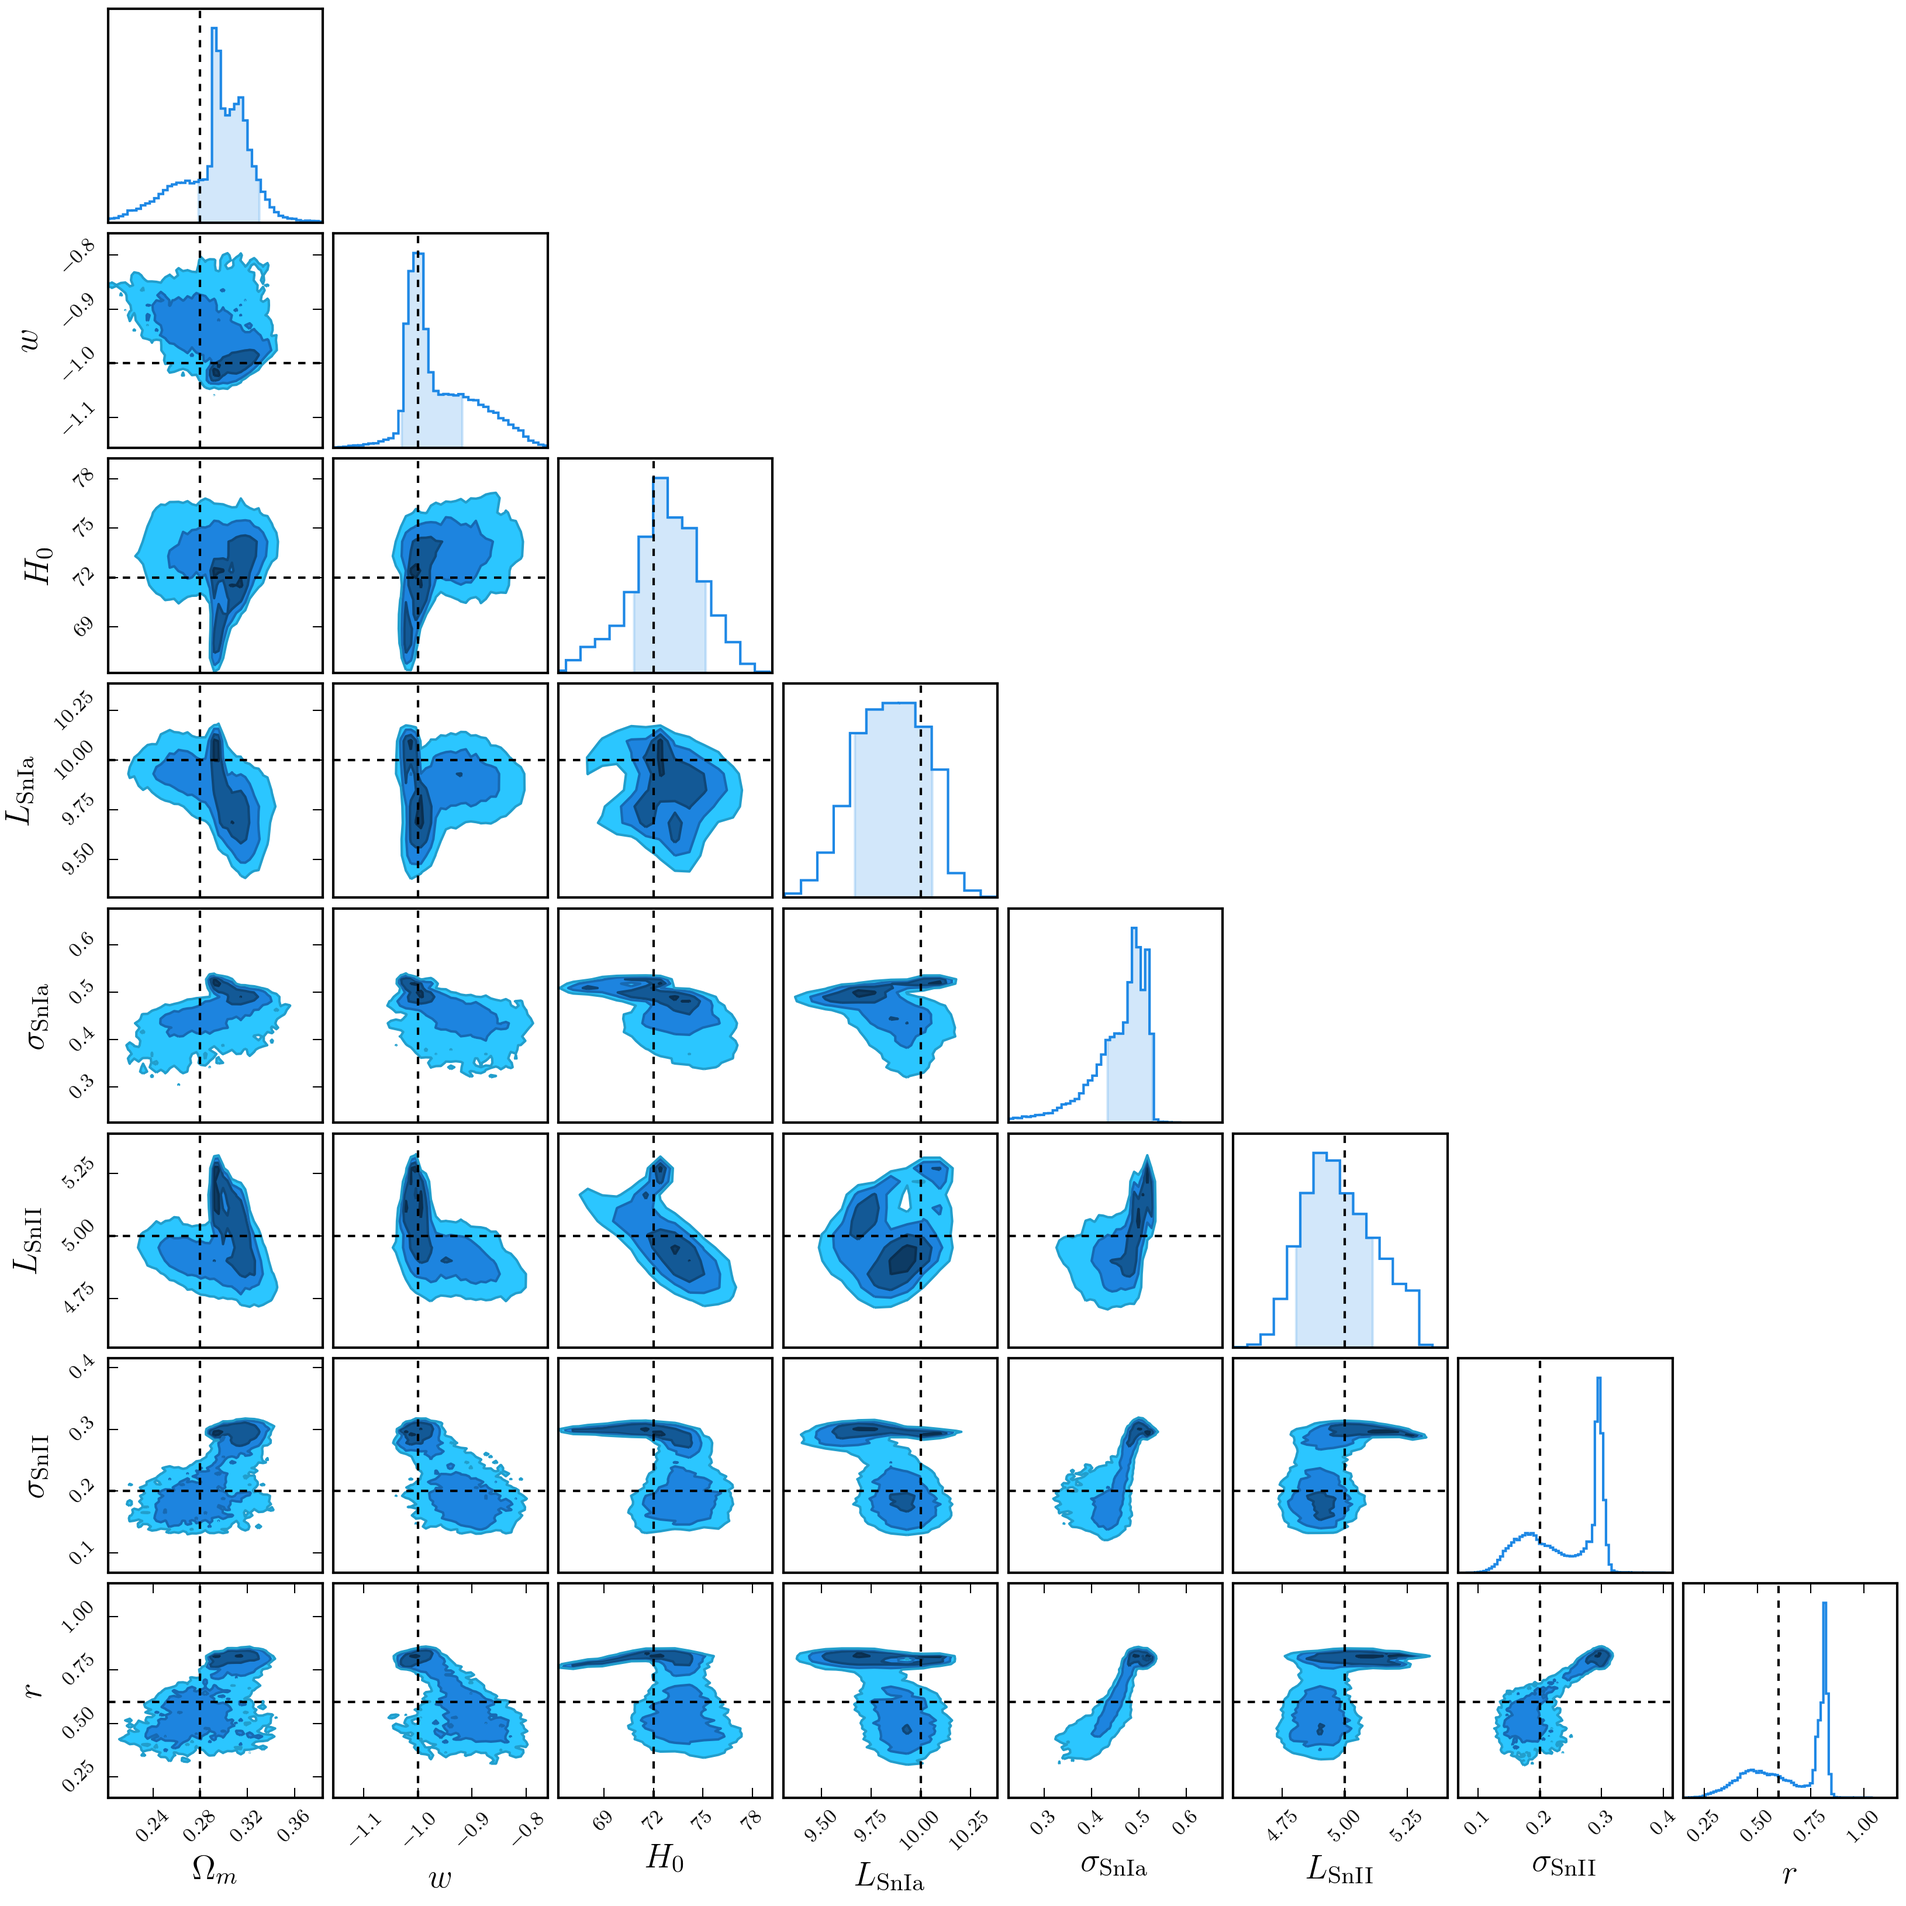
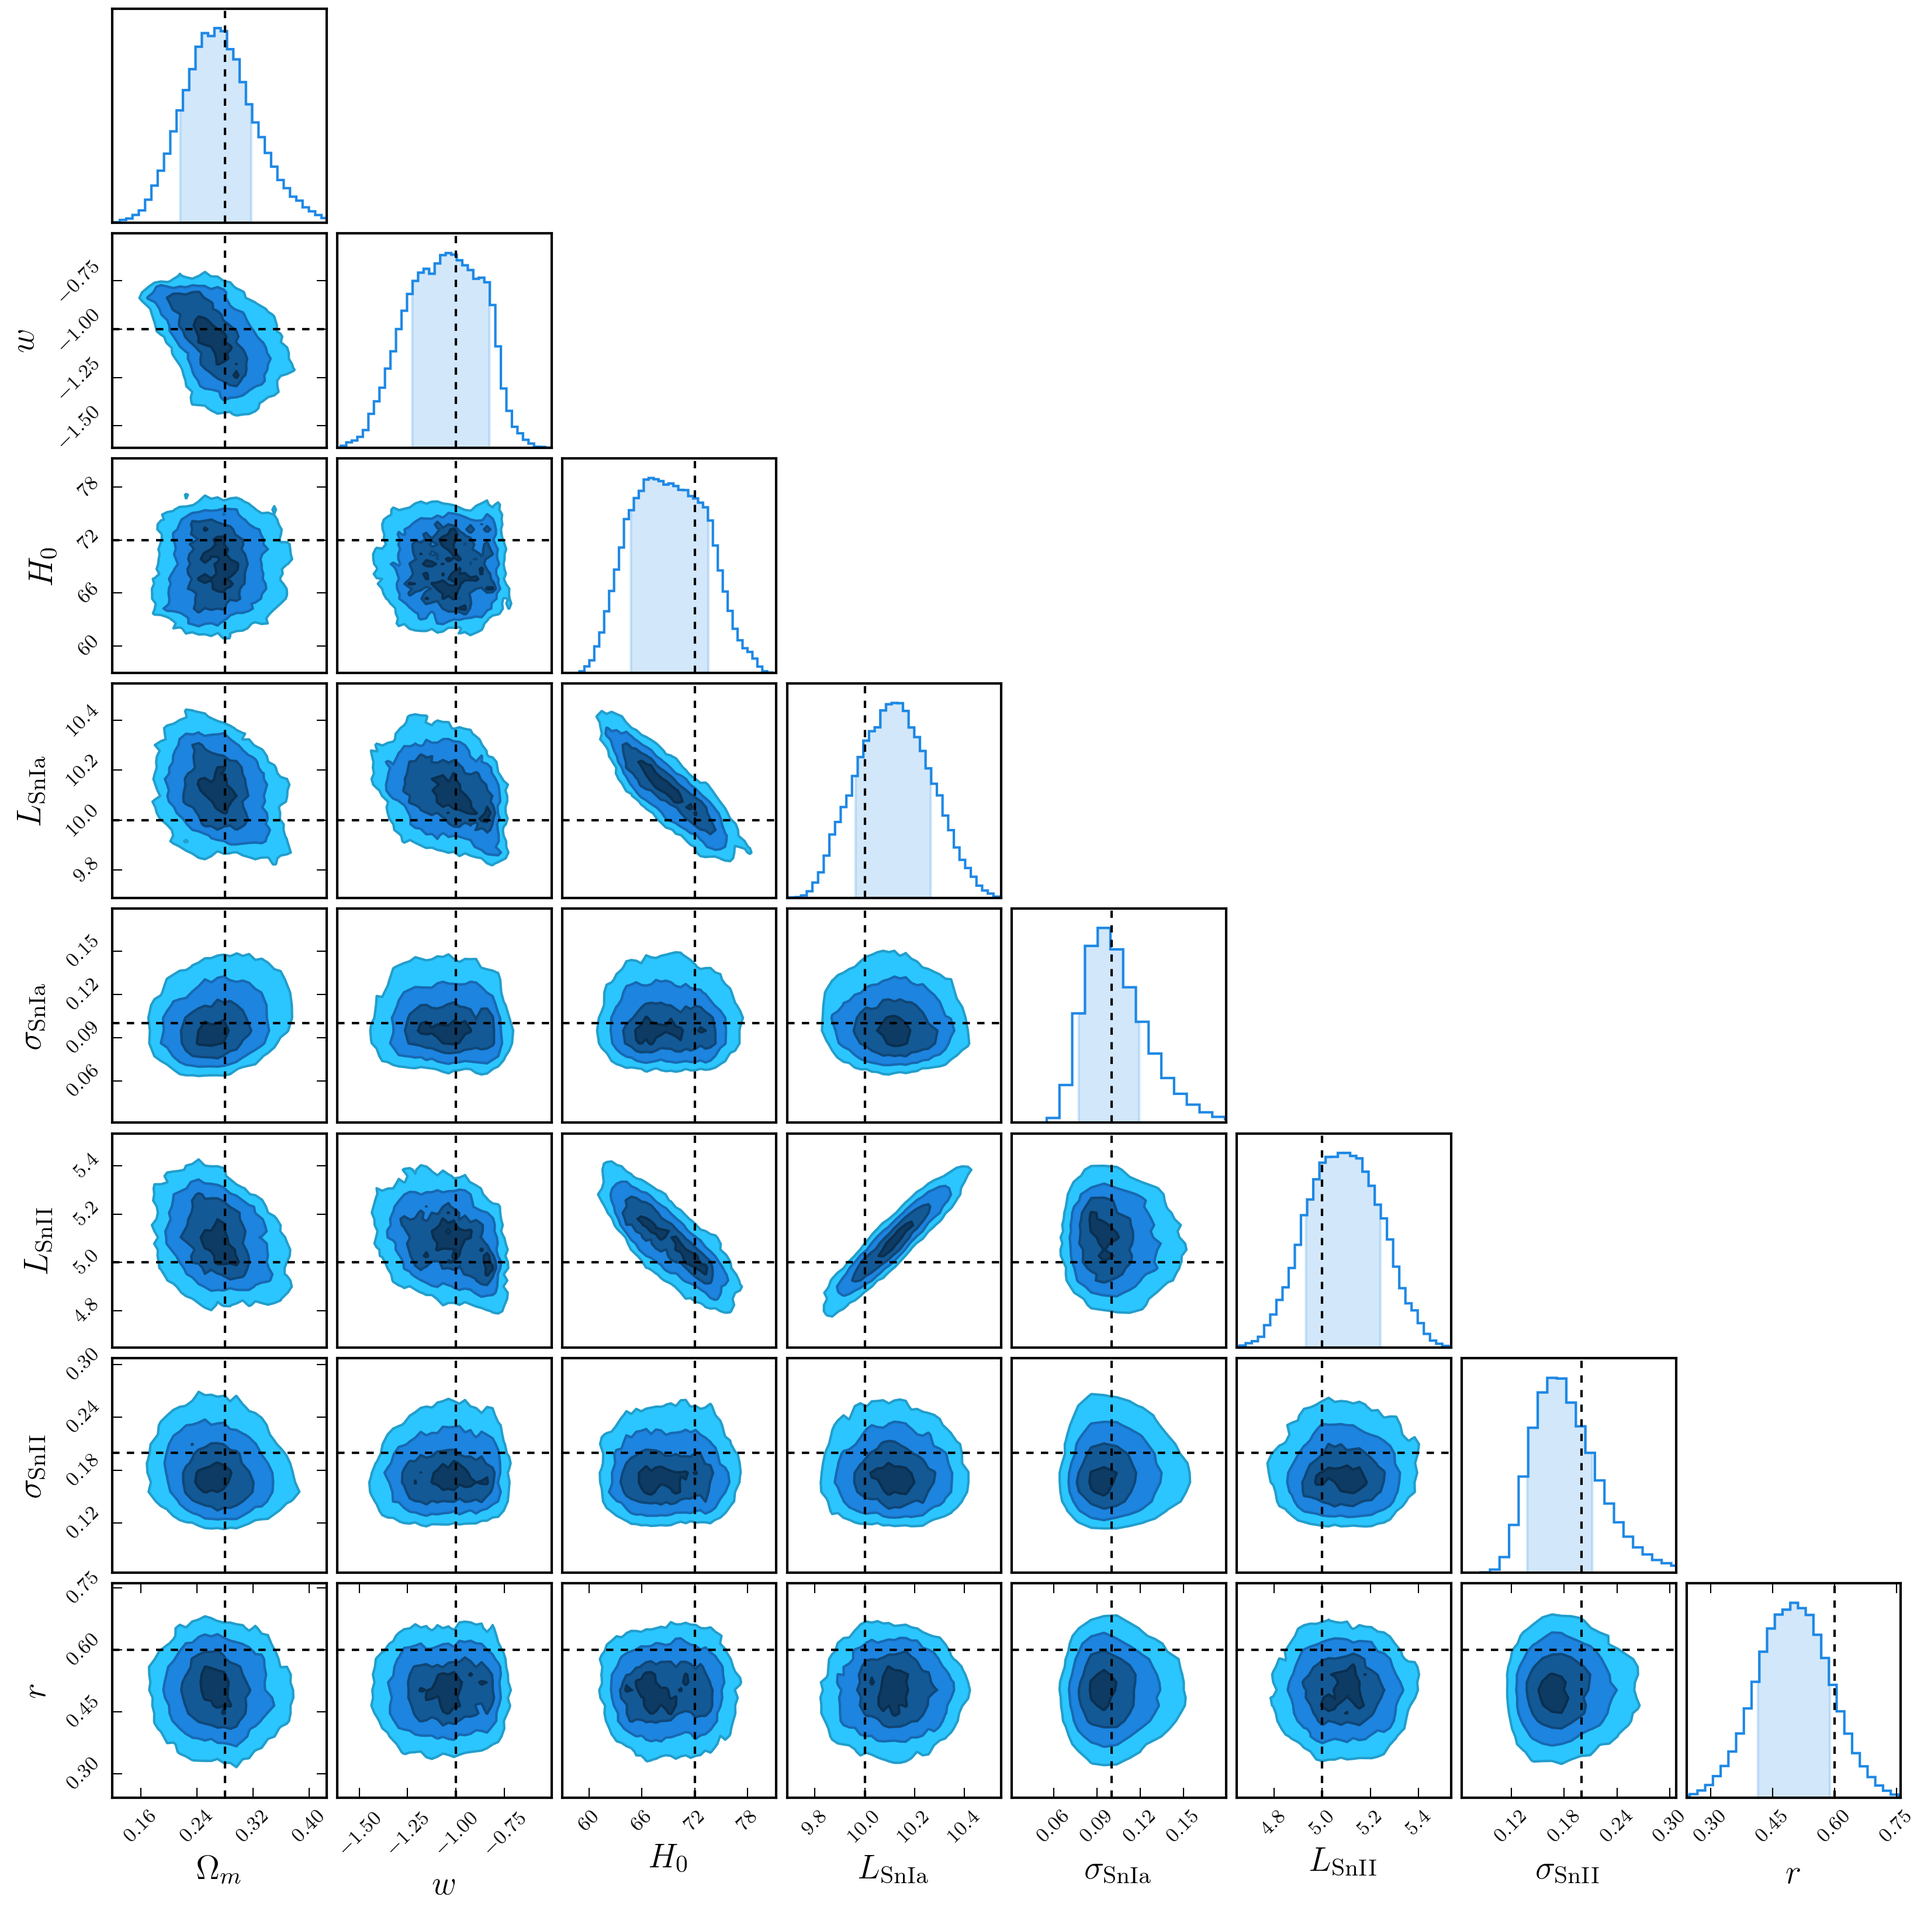
Finally have convergence on a model after 50k steps.

Changed region(s): [[0.0, 0.0, 1.0, 0.9914], [0.7436, 0.5887, 0.7745, 0.6196]]

diff --git a/dessn/toy/toyModel.py b/dessn/toy/toyModel.py
@@ -71,12 +71,12 @@ if __name__ == "__main__":
     if not only_data:
         fig = toy_model.get_pgm(pgm_file)
 
-    toy_model.fit_model(num_steps=20000, num_burn=0, temp_dir=temp_dir, save_interval=120)
+    toy_model.fit_model(num_steps=47896, num_burn=10000, temp_dir=temp_dir, save_interval=120)
 
     if not only_data:
         chain_consumer = toy_model.get_consumer()
         # chain_consumer.plot_walks(display=False, filename=walk_file, figsize=(8, 12))
         chain_consumer.configure_contour(cloud=False)
-        chain_consumer.configure_general(bins=1.0)
+        chain_consumer.configure_general(bins=0.3)
         chain_consumer.plot(display=False, filename=plot_file, figsize="grow", truth=vals)
 
